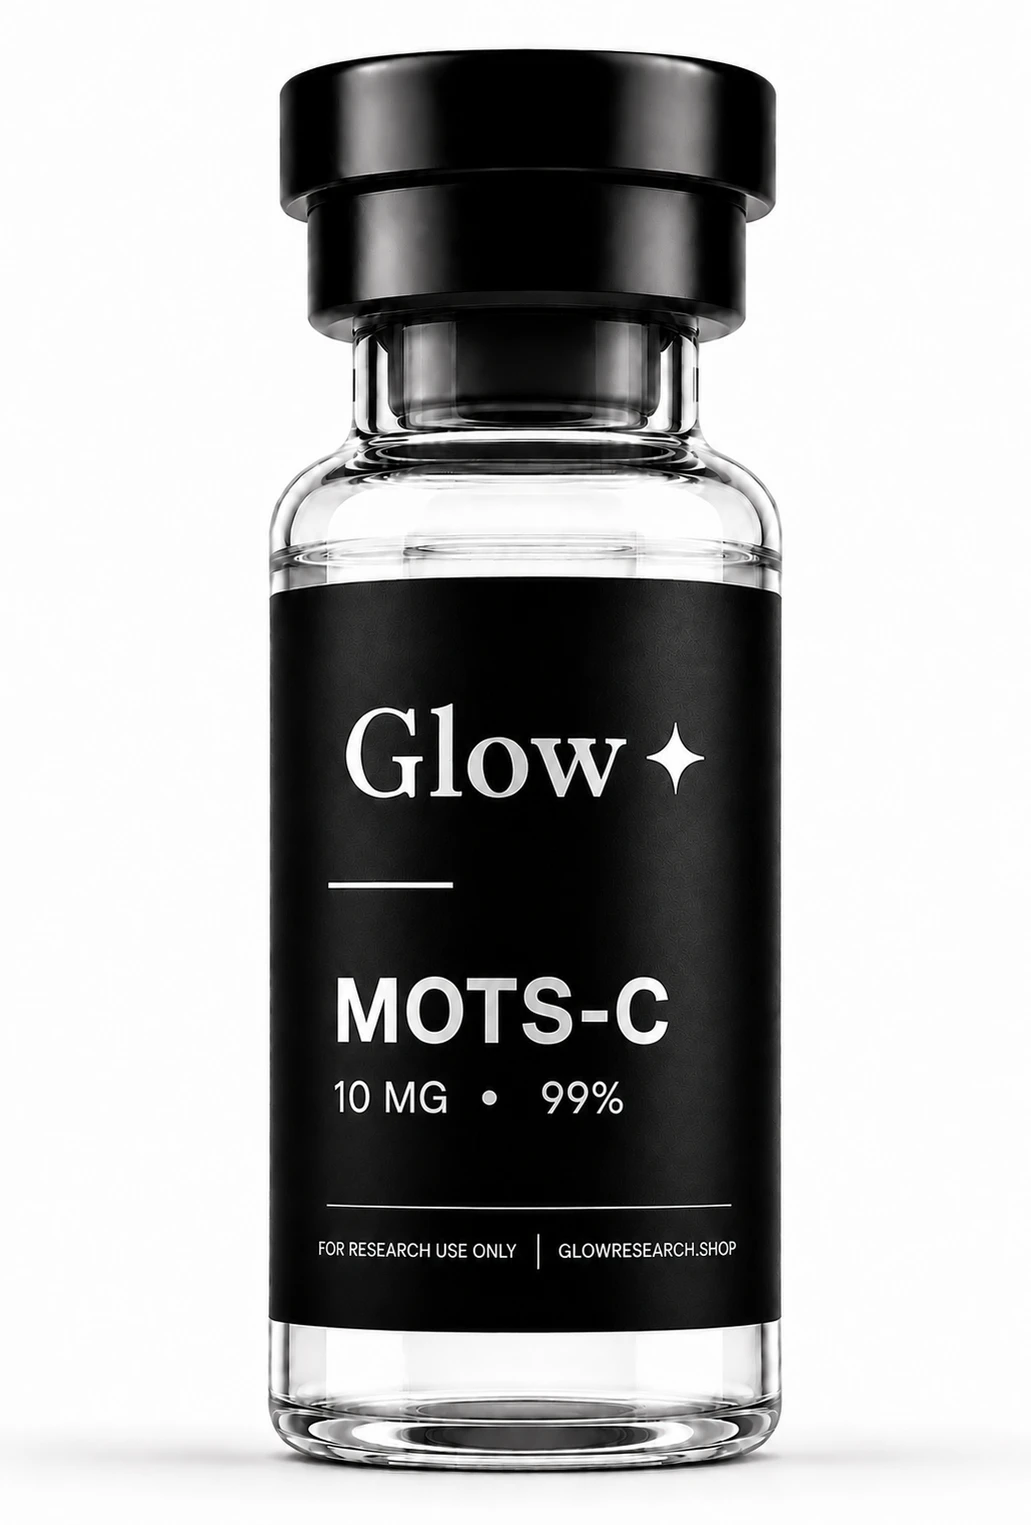
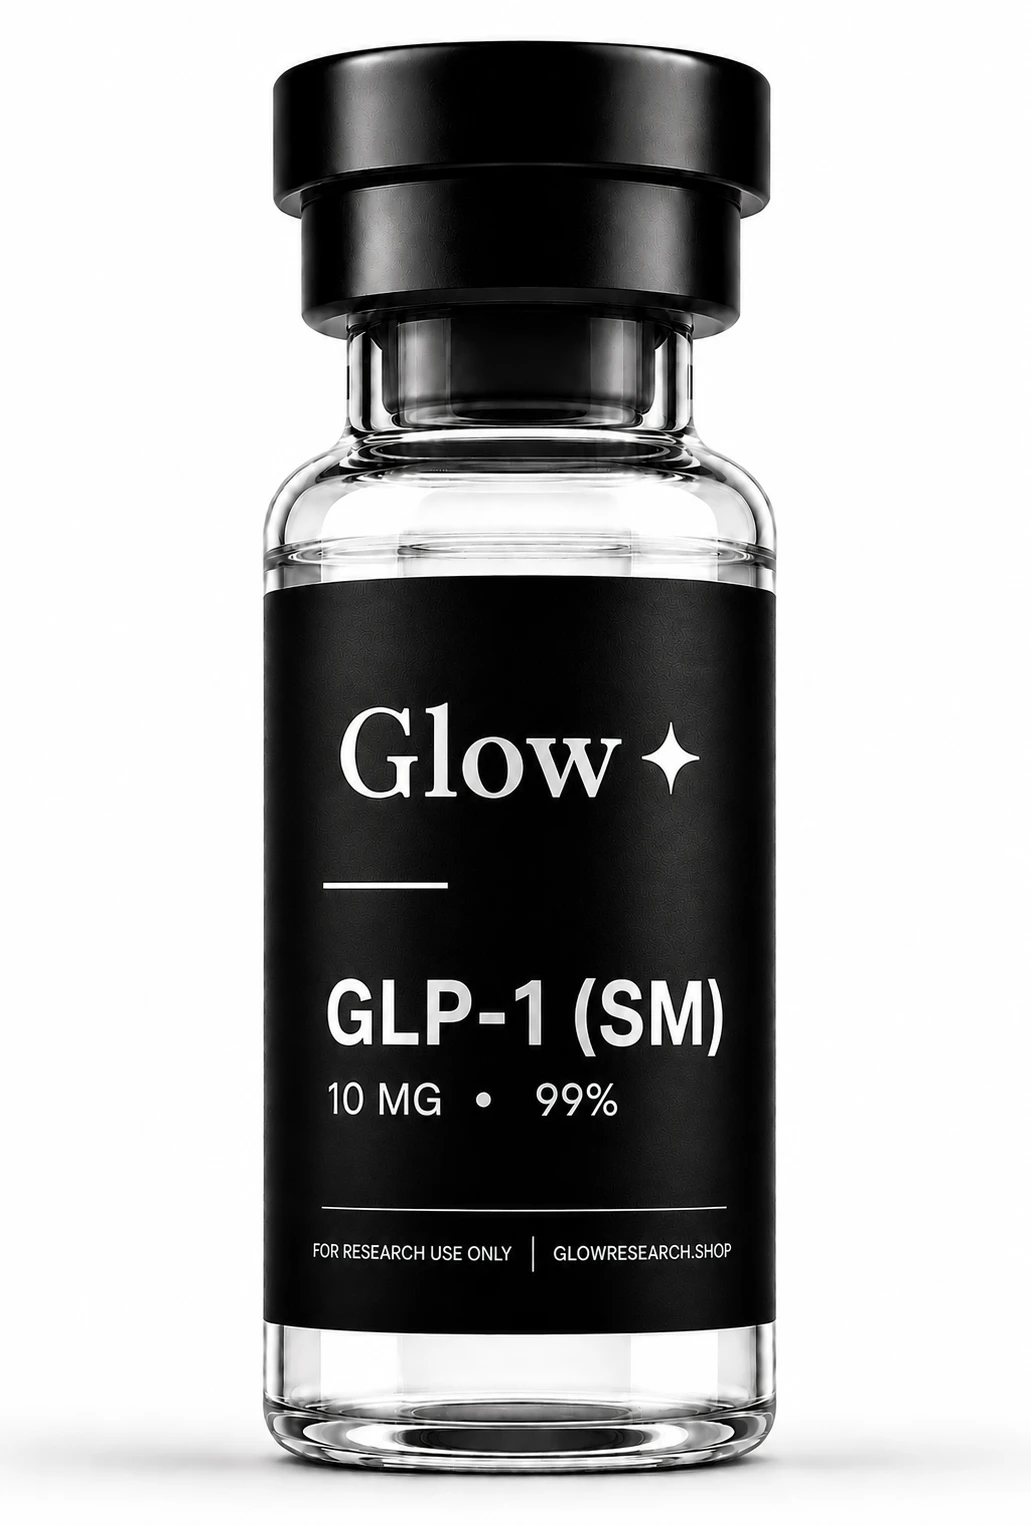
Add photos for GLOW, CJC-1295/Ipamorelin, Tesamorelin, GLP-2 (TR); fix a shuffled batch
All ten SKUs now have real vial photography. Also corrects two mixups
found while verifying against the source files: GLP-1 (SM) and MOTS-C
had swapped images from the previous commit, and GLP-2 (TR), GLP-3 (RT)
and CJC-1295/Ipamorelin were similarly rotated in this batch before the
fix. Verified against every source file directly and against the
rendered catalog grid before committing.

diff --git a/js/products-data.js b/js/products-data.js
@@ -224,7 +224,7 @@ const GLOW_PRODUCTS = [
       { t: 'Antioxidant enzyme activity', d: 'Examined for interaction with copper-dependent enzyme systems.' }
     ] },
   { name: 'GLOW', tag: 'Peptide Blend', cat: 'tissue', purity: '99.0%', badge:null,
-    sizes: [{ mg: '70mg', price: 124.99, list: 155, sku: 'GLO-BBG70' }],
+    sizes: [{ mg: '70mg', price: 124.99, list: 155, sku: 'GLO-BBG70', image: 'assets/products/glow-70mg.webp' }],
     blurb: 'A multi-peptide blend supplied as a single 70mg vial. Composition detail pending supplier confirmation.',
     about: [
       'GLOW is a compounded blend of multiple research peptides, supplied together in one 70mg vial rather than as separate compounds.',
@@ -235,7 +235,7 @@ const GLOW_PRODUCTS = [
       { t: 'Comparative protocols', d: 'Applied alongside single-compound vials when comparing blended and separately administered research protocols.' }
     ] },
   { name: 'CJC-1295 No DAC/Ipamorelin', tag: 'Peptide Blend', cat: 'growth', purity: '99.0%', badge:null,
-    sizes: [{ mg: '5/5mg', price: 89.99, list: 110, sku: 'GLO-CP10' }],
+    sizes: [{ mg: '5/5mg', price: 89.99, list: 110, sku: 'GLO-CP10', image: 'assets/products/cjc-1295-ipamorelin-5-5mg.webp' }],
     blurb: 'A combined CJC-1295 (No DAC) and Ipamorelin formulation. Supplied for research examining GHRH and ghrelin receptor co-agonism.',
     about: [
       'This blend combines CJC-1295 without DAC and Ipamorelin in a single vial, 5/5 mg of each for 10mg total, pairing a GHRH receptor analogue with a selective ghrelin receptor agonist.',
@@ -247,7 +247,7 @@ const GLOW_PRODUCTS = [
       { t: 'Comparative pulse studies', d: 'Applied alongside single-compound vials in models comparing combined and separate administration protocols.' }
     ] },
   { name: 'Tesamorelin', tag: 'Growth Hormone Secretagogue', cat: 'growth', purity: '99.5%', badge:null,
-    sizes: [{ mg: '10mg', price: 98.99, list: 125, sku: 'GLO-TSM10' }],
+    sizes: [{ mg: '10mg', price: 98.99, list: 125, sku: 'GLO-TSM10', image: 'assets/products/tesamorelin-10mg.webp' }],
     blurb: 'A synthetic growth hormone releasing hormone analogue with a stabilised N-terminus. Studied for pituitary receptor engagement.',
     about: [
       'Tesamorelin is a synthetic analogue of growth hormone releasing hormone carrying a trans-3-hexenoic acid modification at the N-terminus that slows enzymatic degradation by DPP-4.',
@@ -271,7 +271,7 @@ const GLOW_PRODUCTS = [
       { t: 'Metabolic pathway research', d: 'Applied in islet and hepatocyte culture models examining downstream incretin signalling.' }
     ] },
   { name: 'GLP-2 (TR)', tag: null, cat: 'metabolic', purity: '99.4%', badge:null,
-    sizes: [{ mg: '10mg', price: 89.99, list: 110, sku: 'GLO-T10' }],
+    sizes: [{ mg: '10mg', price: 89.99, list: 110, sku: 'GLO-T10', image: 'assets/products/glp-2-tr-10mg.webp' }],
     blurb: 'A dual GIP and GLP-1 receptor agonist peptide. Used in research examining co-agonist receptor pharmacology.',
     about: [
       'GLP-2 (TR) is Glow’s designation for tirzepatide, a dual receptor co-agonist peptide, active at both the GIP and the GLP-1 receptor from a single molecule.',

diff --git a/peptides.html b/peptides.html
@@ -258,7 +258,7 @@
             <span class="product-badge sale">Sale</span>
             
           </span>
-          <div class="vial"></div>
+          <img class="product-photo" src="assets/products/glow-70mg.webp" alt="GLOW vial" loading="lazy" />
         </a>
         <div class="product-footer">
           <h3><a href="product.html?p=glow">GLOW 70mg</a></h3>
@@ -276,7 +276,7 @@
             <span class="product-badge sale">Sale</span>
             
           </span>
-          <div class="vial"></div>
+          <img class="product-photo" src="assets/products/cjc-1295-ipamorelin-5-5mg.webp" alt="CJC-1295 No DAC/Ipamorelin vial" loading="lazy" />
         </a>
         <div class="product-footer">
           <h3><a href="product.html?p=cjc-1295-no-dac-ipamorelin">CJC-1295 No DAC/Ipamorelin 5/5mg</a></h3>
@@ -294,7 +294,7 @@
             <span class="product-badge sale">Sale</span>
             
           </span>
-          <div class="vial"></div>
+          <img class="product-photo" src="assets/products/tesamorelin-10mg.webp" alt="Tesamorelin vial" loading="lazy" />
         </a>
         <div class="product-footer">
           <h3><a href="product.html?p=tesamorelin">Tesamorelin 10mg</a></h3>
@@ -330,7 +330,7 @@
             <span class="product-badge sale">Sale</span>
             
           </span>
-          <div class="vial"></div>
+          <img class="product-photo" src="assets/products/glp-2-tr-10mg.webp" alt="GLP-2 (TR) vial" loading="lazy" />
         </a>
         <div class="product-footer">
           <h3><a href="product.html?p=glp-2-tr">GLP-2 (TR) 10mg</a></h3>
